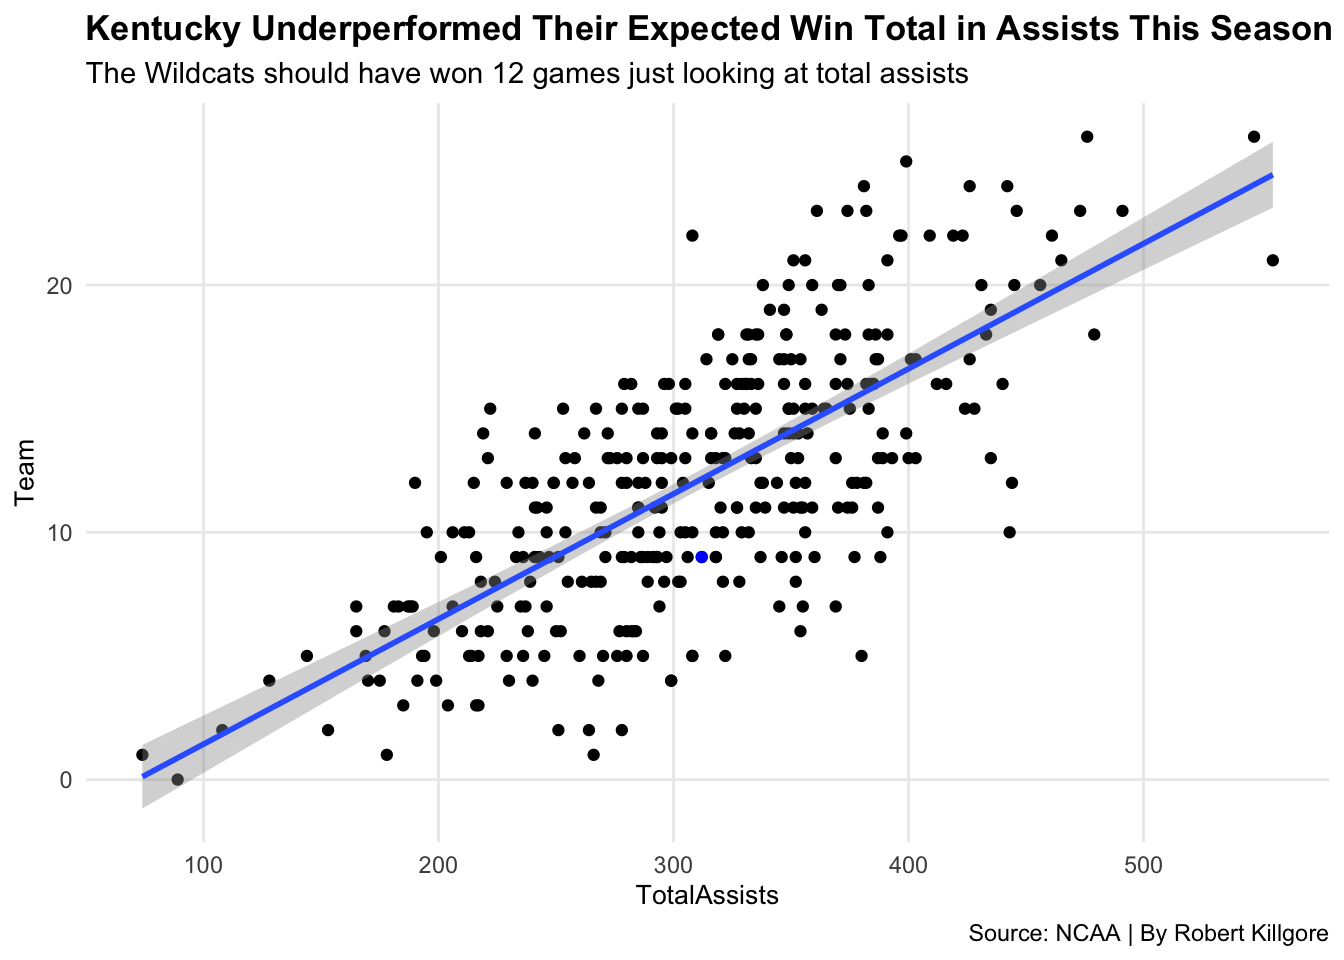
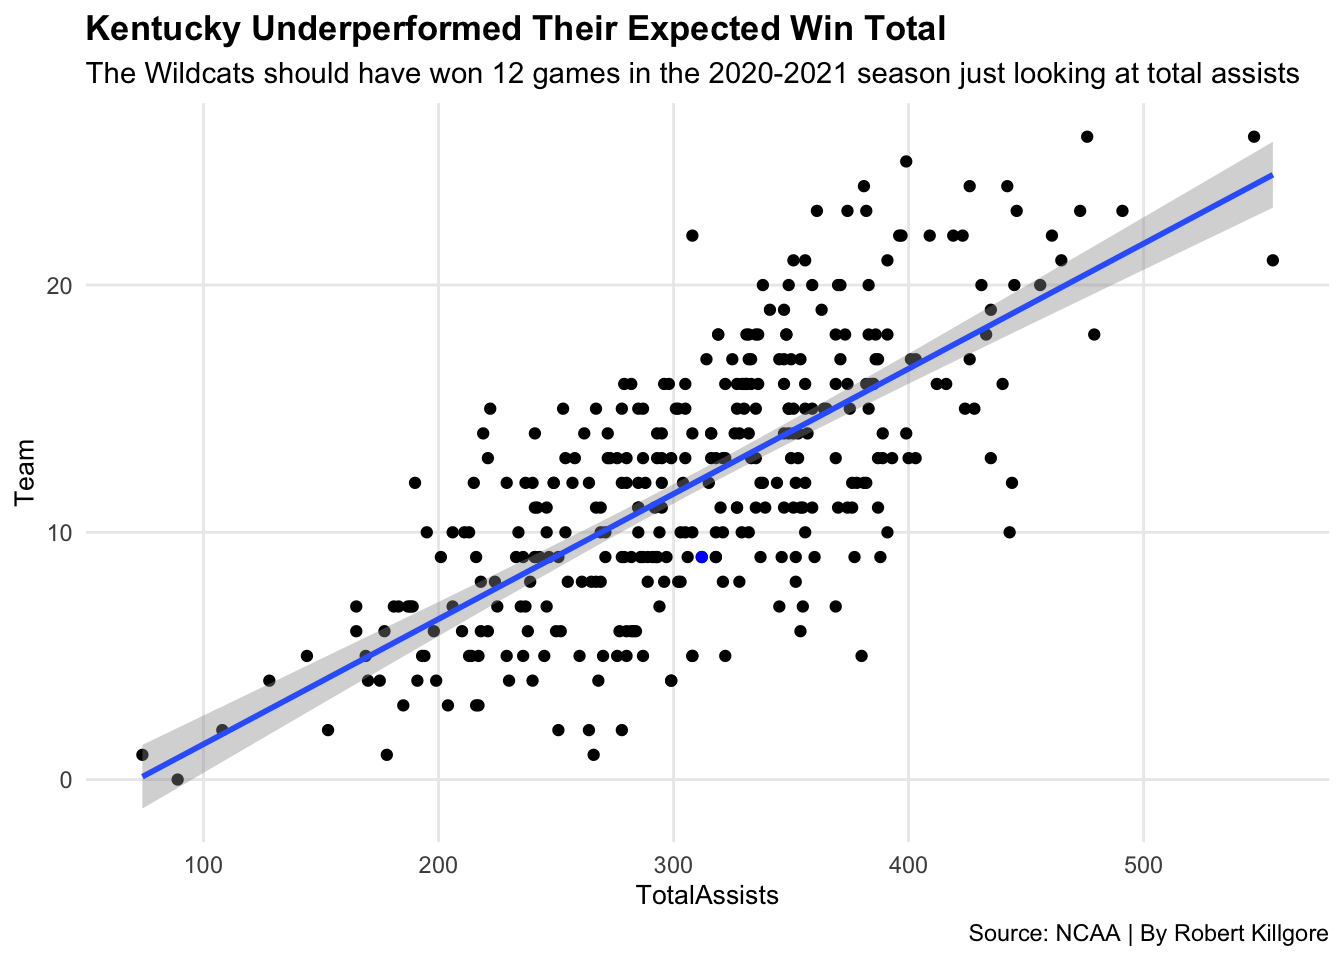
Final test part 2

Changed region(s): [[0.4688, 0.0, 1.0, 0.0938]]

diff --git a/2021/04/02/what-went-wrong-for-kentucky-basketball-this-season/index.html b/2021/04/02/what-went-wrong-for-kentucky-basketball-this-season/index.html
@@ -278,8 +278,8 @@ summary(fit)</code></pre>
   labs(
     x=&quot;TotalAssists&quot;, 
     y=&quot;Team&quot;, 
-    title=&quot;Kentucky Underperformed Their Expected Win Total in Assists This Season &quot;, 
-    subtitle=&quot;The Wildcats should have won 12 games just looking at total assists &quot;, 
+    title=&quot;Kentucky Underperformed Their Expected Win Total &quot;, 
+    subtitle=&quot;The Wildcats should have won 12 games in the 2020-2021 season just looking at total assists &quot;, 
     caption=&quot;Source: NCAA | By Robert Killgore&quot;) +
   theme_minimal() +  theme(
     plot.title = element_text(size = 13, face = &quot;bold&quot;),
